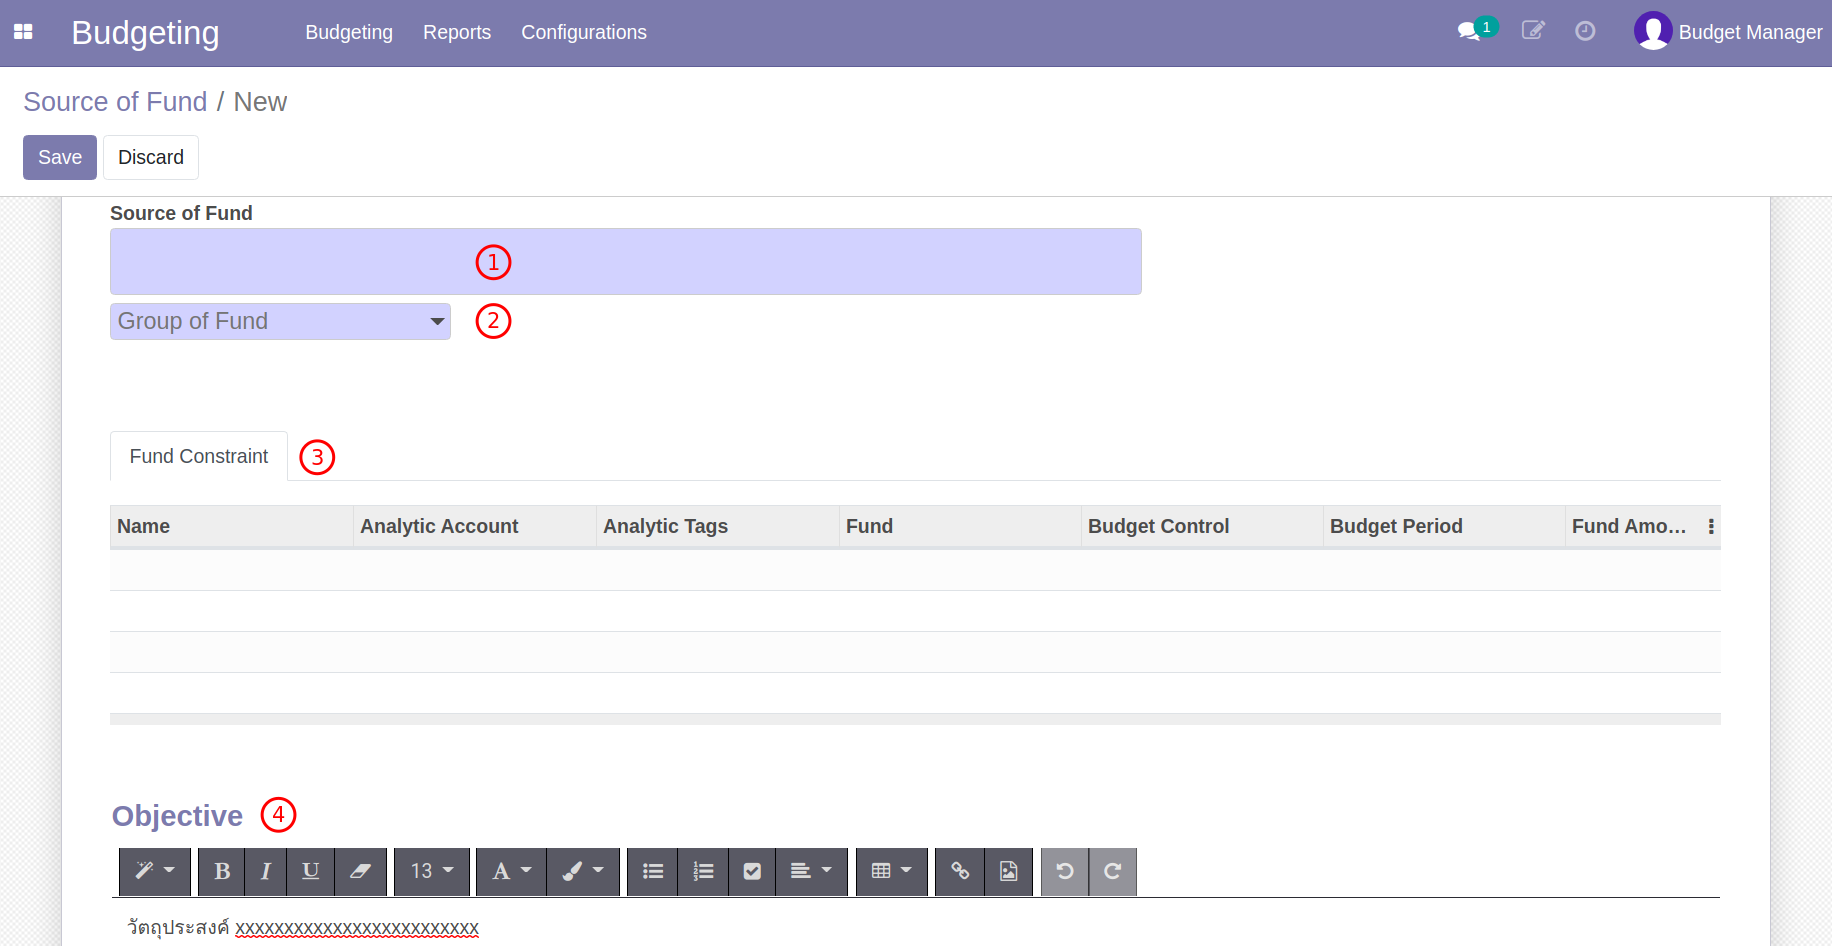
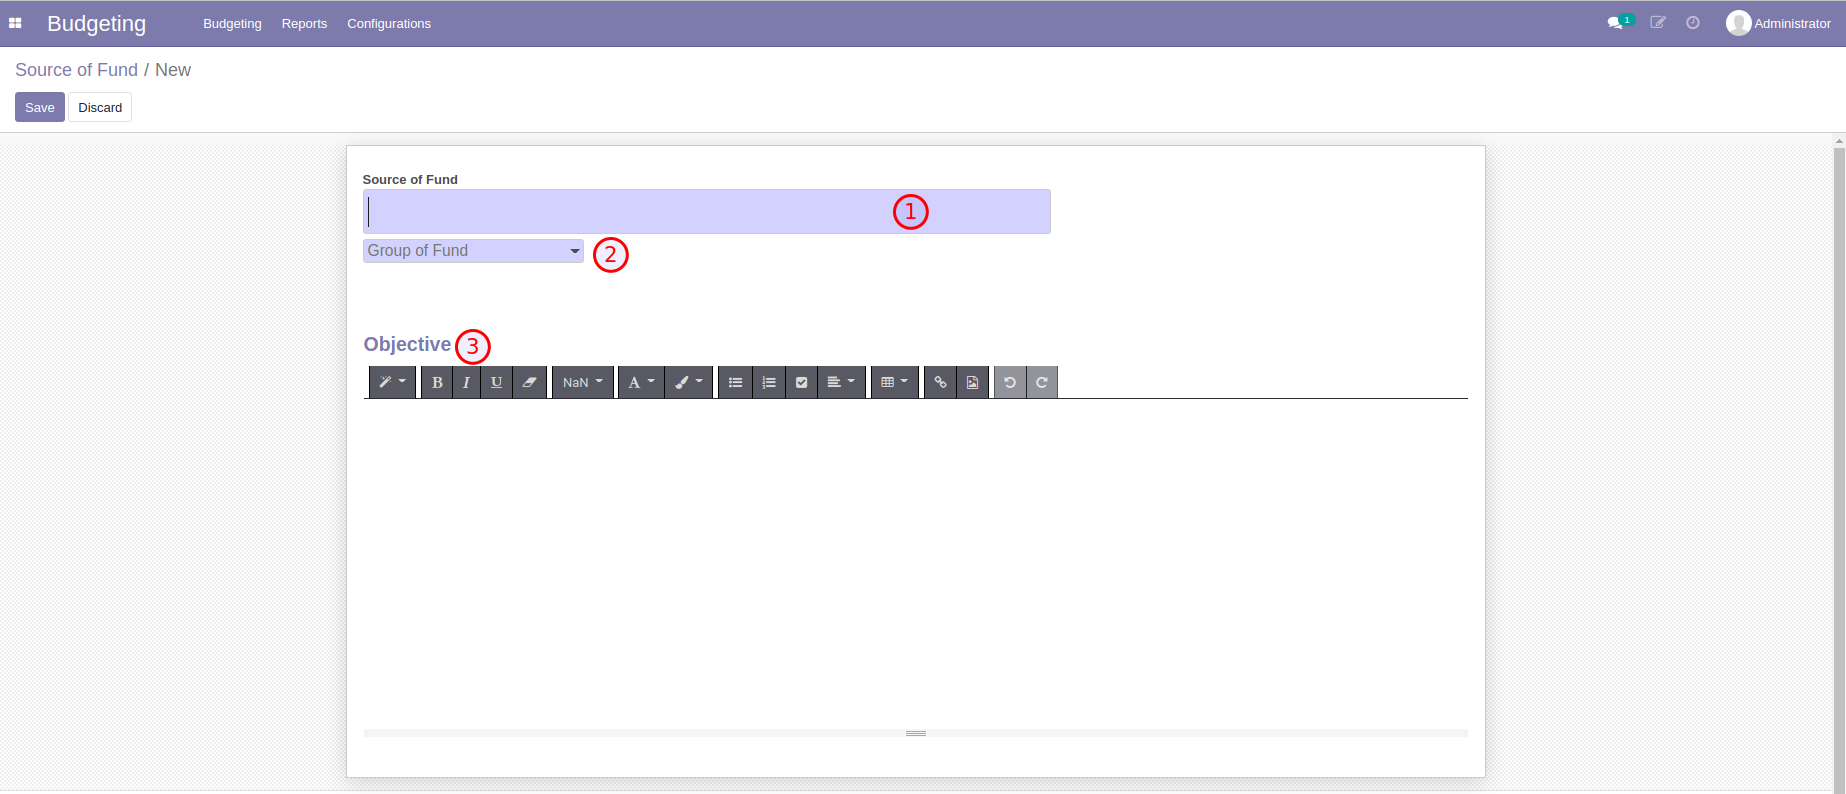
[UPD] session

diff --git a/docs/deliverable_2/1_budget/bg4_for_manager.md b/docs/deliverable_2/1_budget/bg4_for_manager.md
@@ -62,22 +62,19 @@
 
     ![](img/1_master_data/create_aa.png)
 
-!!! Note 
-    Project สถานะ  Confirmed เท่านั้นถึงจะสามารถสร้าง Analytic Account ได้
-
 2. ระบบแสดงหน้าต่าง
     1. Budget Period: เลือกปีงบประมาณของ Analytic Account
     2. กดปุ่ม "Create Analytic Account"
+
     ![](img/1_master_data/create_aa4.png)
 
-3.  ระบบจะสร้างและไปยังหน้า Analytic Account
+3.  ระบบจะสร้างและไปยังหน้า Analytic Account ซึ่งจะแสดง Analytic Account ที่เพิ่งสร้าง
 
     ![](img/1_master_data/create_aa_3.png)
 
-4.  สิ้นสุดกระบวนการสร้าง Project และ Analytic Account
-
-!!! Note
-    Analytic Account จากฝ่าย (Department) จะถูกสร้างขึ้นอัตโนมัติ
+!!! Note 
+    - Project สถานะ  Confirmed เท่านั้นถึงจะสามารถสร้าง Analytic Account ได้
+    - Analytic Account จากฝ่าย (Department) จะถูกสร้างขึ้นอัตโนมัติ
 
 **สิ้นสุดการสร้าง Analytic Account**
 
@@ -88,8 +85,7 @@
 1. กดปุ่ม "Create" เพื่อสร้าง Source of Fund ใหม่ และกรอกรายละเอียด
     1. ตั้งชื่อแหล่งทุน
     2. เลือกกลุ่มของแหล่งทุน
-    3. ตารางแสดงเงื่อนไขการกำหนดแหล่งทุน (Fund Constraint) ระบบจะแสดงให้อัตโนมัติ จากการทำงานที่หน้า Program Allocation
-    4. Objective: วัตถุประสงค์ของแหล่งทุน (ถ้ามี)
+    3. Objective: วัตถุประสงค์ของแหล่งทุน (ถ้ามี)
 
     ![](img/1_master_data/create_sof.png)
 
@@ -212,7 +208,7 @@
 
 **สิ้นสุดการทำงานที่หน้า Budget Plan**
 
-### การพิ่ม Analytic Tags หลังจากที่มีการแจกกรอบงบประมาณไปแล้ว
+### การเพิ่ม Analytic Tags หลังจากที่มีการแจกกรอบงบประมาณตอนต้นปีไปแล้ว
 
 !!! Tip "สำหรับ Use Cases"
     * (1) การโอนงบประมาณให้ Cost Center ที่ไม่เคยได้รับการจัดสรรงบประมาณตอนต้นปี
@@ -222,12 +218,14 @@
 1. ที่เมนู Budget Allocation ตรวจสอบสถานะของเอกสาร จะอยู่ที่ Confirmed
     1. กดปุ่ม "Set to draft" เพื่อเปลี่ยนสถานะเอกสารจาก Confirmed เป็น Draft
     2. กดปุ่ม "Edit" เพื่อใส่ Analytic Tags
+    
     ![](img/2_budget_allocation/edit_allocation_1.png)
 
 2. กด "Add a line" เพื่อเพิ่ม Analytic Tags ให้กับ Cost Center ที่ยังไม่เคยมี Analytic Tags
     1. เลือก Fund
     2. เลือก Analytic Account
     3. เลือก Analytic Tags
+    
     ![](img/2_budget_allocation/edit_allocation_2.png)
 
 3. กดปุ่ม "Save" ตรวจสอบข้อมูล
@@ -306,9 +304,8 @@
         
 **Menu ::** Budgeting > Budgeting > Budget Plan
 
-1. เลือก Budget Plan (Revision 0) ที่สร้างจาก Budget Allocation ตอนต้นปี สถานะเอกสารอยู่ที่ Done
-      - กดปุ่ม "New Revision" 
-        ![revision 0](img/4_keep_v0/revision0.png)
+1. เลือก Budget Plan (Revision 0) ที่สร้างจาก Budget Allocation ตอนต้นปี สถานะเอกสารอยู่ที่ Done แล้วกดปุ่ม "New Revision" 
+    ![revision 0](img/4_keep_v0/revision0.png)
 2. ระบบจะสร้าง Budget Plan (Revision 1) สถานะเอกสารอยู่ที่ Draft (เจ้าหน้าที่แผนจะทำรายการต่อไม่ได้จนกว่าจะได้รับการ Verify จากหัวหน้างานยุทธศาสตร์แผนงานและงบประมาณ)
       - เมื่อได้รับการ Verify เสร็จแล้วระบบจะส่งเอกสารสู่ขั้นตอนการอนุมัติโดย ผสสน.
         ![verify done](img/4_keep_v0/request_tier.png)
@@ -359,8 +356,7 @@
 3. ระบบสร้าง Budget Plan Version ใหม่
     ![](img/6_budget_revision/new_revision2.png)
 
-4. ไปที่ **Menu ::** Budgeting > Budgeting > Budget Allocation เพื่อแก้ไขกรอบงบประมาณใหม่ตามกรอบงบประมาณที่ได้รับการอนุมัติจากการประชุม
-    - กดปุ่ม "Reset to draft" เพื่อเริ่มแก้ไขกรอบงบประมาณ
+4. ไปที่ **Menu ::** Budgeting > Budgeting > Budget Allocation เพื่อแก้ไขกรอบงบประมาณใหม่ตามกรอบงบประมาณที่ได้รับการอนุมัติจากการประชุม หลังจากนั้น กดปุ่ม "Reset to draft" เพื่อเริ่มแก้ไขกรอบงบประมาณ
     ![](img/6_budget_revision/budget_allocation.png)
 
 5. เริ่มการแก้ไขกรอบงบประมาณ
@@ -398,6 +394,7 @@
     ![](img/6_budget_revision/Selection_358.png)
 
 10. กดปุ่ม "Done" เพื่อสิ้นสุดการปรับแผน สถานะเอกสารเปลี่ยนจาก Confirmed เป็น Done
+    
     ![](img/6_budget_revision/Selection_359.png)
 
 #### การขยายเวลา Analytic Account ที่ถูก Extend
@@ -509,18 +506,15 @@
 
     ![](img/7_budget_carry_forward/carry_forward_available_line.png)
 
-    ตัวอย่างการยกยอดงบประมาณ
-    1. การยกยอดโครงการที่มีระยะเวลาดำเนินโครงการมากกว่า 1 ปี โดยยกเงินคงเหลือไปทำโครงการต่อในปีถัดไป
-    2. การขยายระยะเวลาการดำเนินโครงการ
-    3. การยกเงินคงเหลือทั้งหมดไปเก็บที่ Analytic Account เงินสะสม โดยที่ไม่มีการดำเนินโครงการต่อในปีงบประมาณถัดไป
-
-    ![](img/7_budget_carry_forward/eg.png)
-
-    !!! Note
-        ในแต่ละบรรทัดระบบจะดึง default ของ Method กับ Accumulate Analytic Account จากด้านบนเอกสาร
+    !!! Note "ตัวอย่างการยกยอดงบประมาณ"
+        1. การยกยอดโครงการที่มีระยะเวลาดำเนินโครงการมากกว่า 1 ปี โดยยกเงินคงเหลือไปทำโครงการต่อในปีถัดไป
+        2. การขยายระยะเวลาการดำเนินโครงการ
+        3. การยกเงินคงเหลือทั้งหมดไปเก็บที่ Analytic Account เงินสะสม โดยที่ไม่มีการดำเนินโครงการต่อในปีงบประมาณถัดไป
+        ![](img/7_budget_carry_forward/eg.png)
 
     !!! Note
-        ถ้าเลือก Method เป็น Extend ไม่ต้องเลือก Carry Forward Analytic Account แต่ถ้าเลือก Method เป็น New Analytic ต้องเลือก Carry Forward Analytic Account
+        - ในแต่ละบรรทัดระบบจะดึง default ของ Method กับ Accumulate Analytic Account จากด้านบนเอกสาร
+        - ถ้าเลือก Method เป็น Extend ไม่ต้องเลือก Carry Forward Analytic Account แต่ถ้าเลือก Method เป็น New Analytic ต้องเลือก Carry Forward Analytic Account
 
 5. ตรวจสอบข้อมูล
     - หากถูกต้องครบถ้วนกดปุ่ม "Save"
@@ -537,12 +531,11 @@
 หลังจากผ่านการ Verify จากหัวหน้างานยุทธศาสตร์แผนงานและงบประมาณ สถานะเอกสารเปลี่ยนจาก To Verify เป็น Verify
     ![](img/7_budget_carry_forward/state_verify.png)
 ทำการยกยอดงบประมาณต่อ ดังนี้
+
 1. เลือกเอกสาร Budget Carry Forward ที่ต้องการ
 2. กดปุ่ม "Carry Budget Forward"
-
-![](img/7_budget_carry_forward/carry_budget_forward.png)
-
-4. ระบบแสดงหน้าต่างให้ตรวจสอบตัวเลขการยกยอดงบประมาณอีกครั้ง
+    ![](img/7_budget_carry_forward/carry_budget_forward.png)
+3. ระบบแสดงหน้าต่างให้ตรวจสอบตัวเลขการยกยอดงบประมาณอีกครั้ง
     1. หากถูกต้องครบถ้วน กดปุ่ม "Carry Budget Forward" เพื่อยกยอดงบประมาณ
     2. หากต้องการแก้ไข กดปุ่ม "Cancel"
     ![](img/7_budget_carry_forward/preview.png)

diff --git a/docs/deliverable_2/1_budget/bg3_for_user.md b/docs/deliverable_2/1_budget/bg3_for_user.md
@@ -6,7 +6,7 @@
 
 ### การวางแผนการใช้จ่ายงบประมาณบน Excel
 
-หลังจากที่ฝ่ายแผน ทำการสร้างงบประมาณในระบบแล้ว ทางฝ่ายแผน จะส่งไฟล์ Excel ให้กับผู้รับผิดชอบงบประมาณตาม Analytic Account ซึ่งผู้รับผิดชอบจะต้องทำการวางแผนงบประมาณของปีนั้น ๆ ให้ถูกต้อง ครบถ้วนตามงบประมาณที่ได้รับ
+หลังจากที่ฝ่ายแผน ทำการสร้างงบประมาณในระบบแล้ว ทางฝ่ายแผน จะส่งไฟล์ Excel ให้กับผู้รับผิดชอบงบประมาณตาม Analytic Account ซึ่งผู้รับผิดชอบจะต้องทำการวางแผนงบประมาณของปีนั้น ๆ ให้ถูกต้อง ครบถ้วนตามงบประมาณที่ได้รับ จากนั้น Save แล้วส่งไฟล์ Excel ที่ทำการวางแผนเรียบร้อยแล้วคืนให้กับฝ่ายแผน
 
 รายละเอียดการกรอกข้อมูลการวางแผนบน Excel
 
@@ -18,8 +18,6 @@
 
 !!! Note 
     การ Copy ข้อมูลจากที่อื่นมาลงใน Excel จะต้องระวังเรื่องตัวอักษร การเว้นวรรค และอื่น ๆ ที่อาจะทำให้ชื่อที่ copy มากับในระบบไม่ตรงกัน แล้วระบบจะไม่สามารถ Import ข้อมูลนั้นเข้าไปได้
-
-ตรวจสอบยความถูกต้องของไฟล์ Excel จากนั้น Save > **ส่งไฟล์ Excel ให้กับฝ่ายแผน**
 
 **สิ้นสุดการกรอกข้อมูลการวางแผนใน Excel**
 
@@ -73,6 +71,9 @@
 
 ## กระบวนการโอนงบประมาณ
 
+!!! Tip "สามารถใช้กับ Use Cases"
+    * (3) การโอนเงินออกจาก Analytic Account ที่ถูก Extend
+
 ผู้ให้และผู้รับงบประมาณ มีการตกลงกันว่าต้องการโอนงบประมาณ จากนั้นจึงเริ่มการทำงานในระบบ โดยเริ่มจาก
 
 1. หยุดการใช้งบประมาณบนระบบ
@@ -87,7 +88,8 @@
 
 1. เข้าไปที่หน้า Budget Control Sheet ของตนเอง ระบบแสดงสถานะของ Budget Control Sheet เป็น Control
 2. กดปุ่ม Reset to Draft เปลี่ยนสถานะเอกสารจาก Control เป็น Draft เพื่อหยุดการเบิกใช้งบประมาณ
-    ![draft](img/5_budget_transfer/draft.png)
+
+![draft](img/5_budget_transfer/draft.png)
 
 ### การสร้างเอกสาร Budget Transfer
 
@@ -102,18 +104,22 @@
     3. Source Fund: แหล่งงบประมาณ
     4. Available: ยอดงบประมาณคงเหลือ
     5. Target: ผู้รับงบประมาณ
-    6. Target Analytic Tags: Analytic Tags: เลือก Tags ที่มี โดยระบบจะดึงค่าตั้งต้นให้ หาก Analytic 
+    6. Target Analytic Tags: เลือก Tags ที่มี โดยระบบจะดึงค่าตั้งต้นให้ หาก Analytic Account นั้นมี Tags อย่างละ 1 ตัว
     7. Target Fund: แหล่งงบประมาณ
     8. Available: ยอดงบประมาณคงเหลือ
     9. **Transfer Amount: ยอดงบประมาณที่ต้องการโอน**
-        ![](img/5_budget_transfer/transfer2.png)
+    
+    ![](img/5_budget_transfer/transfer2.png)
 
 3. ตรวจสอบข้อมูล หากถูกต้องครบถ้วนกดปุ่ม "Save" หากต้องการแก้ไขกดปุ่ม "Edit"
 4. กดปุ่ม "Submit" ระบบจะส่งเอกสารเพื่อขออนุมัติการโอนงบประมาณ
     - สถานะเอกสารเปลี่ยนจาก Draft เป็น Submit
-        ![](img/5_budget_transfer/submit.png)
+    
+    ![](img/5_budget_transfer/submit.png)
+    
     - Tab Review จะแสดงสถานะการอนุมัติ
-        ![](img/5_budget_transfer/review.png)
+    
+    ![](img/5_budget_transfer/review.png)
 
     !!! Note
         หากฝ่ายแผนพิจารณาให้โอนงบประมาณได้ ระบบจะส่งเอกสารอนุมัติตามลำดับ
@@ -124,9 +130,6 @@
 
 !!! Note
     หากยังไม่มี Analytic Tags ในระบบ ให้แจ้งฝ่ายแผนให้ใส่ Analytic Tags ในระบบ
-
-!!! Tip "สามารถใช้กับ Use Cases"
-    * (3) การโอนเงินออกจาก Analytic Account ที่ถูก Extend
 
 ### การแก้ไขแผนการใช้จ่าย หลังจากโอนงบประมาณเสร็จสิ้น
 

diff --git a/docs/deliverable_2/1_budget/bg2_config.md b/docs/deliverable_2/1_budget/bg2_config.md
@@ -13,6 +13,7 @@
 - สำหรับพนักงานที่อยู่ในฝ่ายแผน ต้องมีสิทธิ์เป็น Budget Manager และ Project Manager
 
 ![](img/set_user_budget.png)
+
 ![](img/set_user_project.png)
 
 ## 2. การตั้งค่าโมดูล Budgeting
